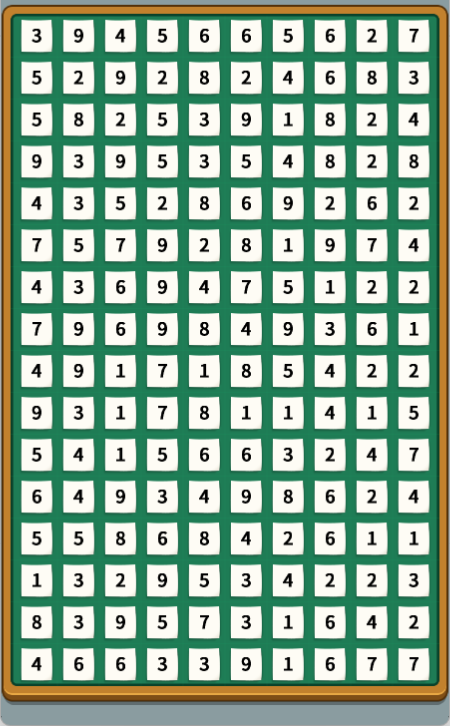
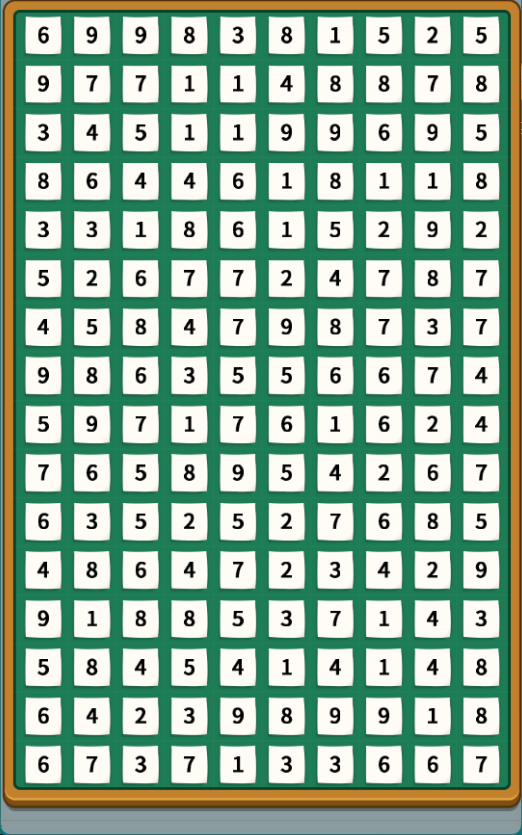
更改屏幕大小

Changed region(s): [[0.0, 0.0, 1.0, 1.0]]

diff --git a/ImageProcessor.py b/ImageProcessor.py
@@ -17,19 +17,21 @@ class ImageProcessor:
         self.image.show()
 
     # split_image 将 image 分割成 10 * 16 份,返回一个 Tile 对象列表
-    def split_image(self, tile_size=(42, 42), begin_position=(12, 10), delta=(17, 12, 35, 35)):
+    def split_image(self, begin_position=(15, 15), delta=(10, 10, 40, 40)):
         width, height = self.image.size
+        height = height // 17 * 16
+        tile_size = (width // 10 - 3 , height // 16 - 1 )
         tiles = []
 
         id = 0
-        for y in range(begin_position[0], height - tile_size[0], tile_size[0]):
-            for x in range(begin_position[1], width - tile_size[1], tile_size[1]):
+        for y in range(begin_position[0], height - 20, tile_size[1]):
+            for x in range(begin_position[1], width - 20, tile_size[0]):
                 tile_picture = self.image.crop((x, y, x + tile_size[0], y + tile_size[1]))
                 tile_picture = tile_picture.crop(delta)
                 tile_picture = ImageOps.invert(tile_picture)
                 tile = Tile(tile_picture, (x + delta[0], y + delta[1], x + delta[2], y + delta[3]), id,
                             "tile_picture{:03d}".format(id))
-                # tile.save_image("Images")
+                tile.save_image("Images")
                 tiles.append(tile)
                 id += 1
         return tiles

diff --git a/app.py b/app.py
@@ -46,6 +46,8 @@ if __name__ == "__main__":
     image_processor = ImageProcessor(image_path)
     tiles = image_processor.split_image()
 
+    print(len(tiles))
+
     # 线程数量
     thread_num = 3
     # 文字识别
@@ -83,11 +85,11 @@ if __name__ == "__main__":
 
         # 开始拖拽的位置
         start_x = position[0] + a_x
-        start_y = position[1] + a_y
+        start_y = position[1] + a_y + 15
 
         # 拖拽结束的位置
         end_x = position[0] + b_x
-        end_y = position[1] + b_y
+        end_y = position[1] + b_y + 15
 
         # print(position[0], position[1])
         print("start_x:", start_x, "start_y", start_y, "end_x:", end_x, "end_y:", end_y)
